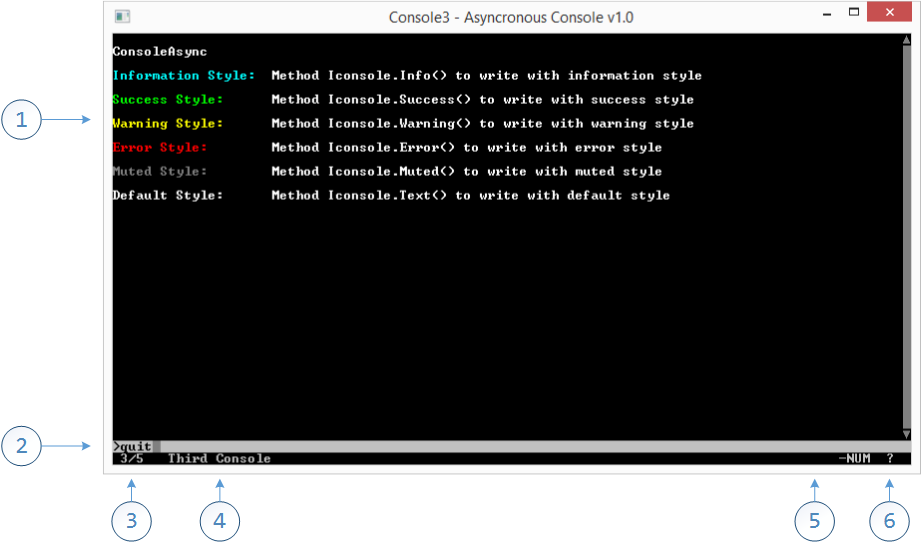
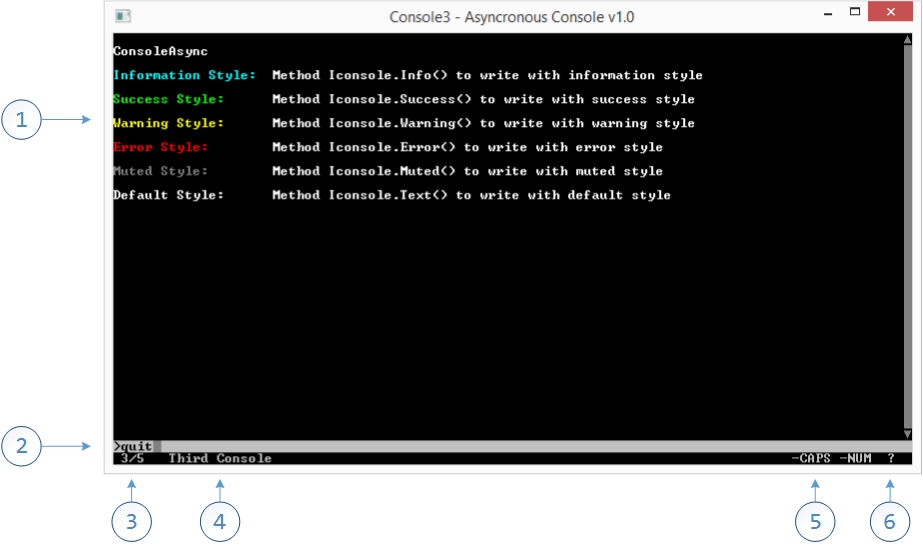
...

diff --git a/README.md b/README.md
@@ -2,5 +2,11 @@ ConsoleAsync
 ------------------------------------------------------------------------
 ![ConsoleAsync Screenshot](documentation/AsyncronousConsoleDiagram.png "ConsoleAsync Screenshot")
 
+1. Mutiple writing styles
+2. Customized user input
+3. Multiple console
+4. Name of visible console
+5. CAPS/NUM State
+6. Warning on update of non visible console
 
 [Documentation](documentation/summary.md) is still in progress...
